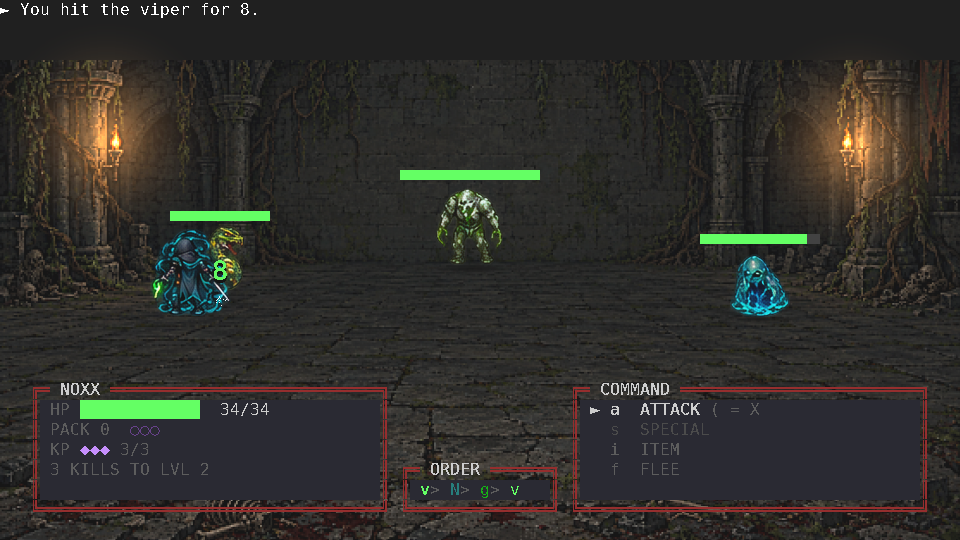
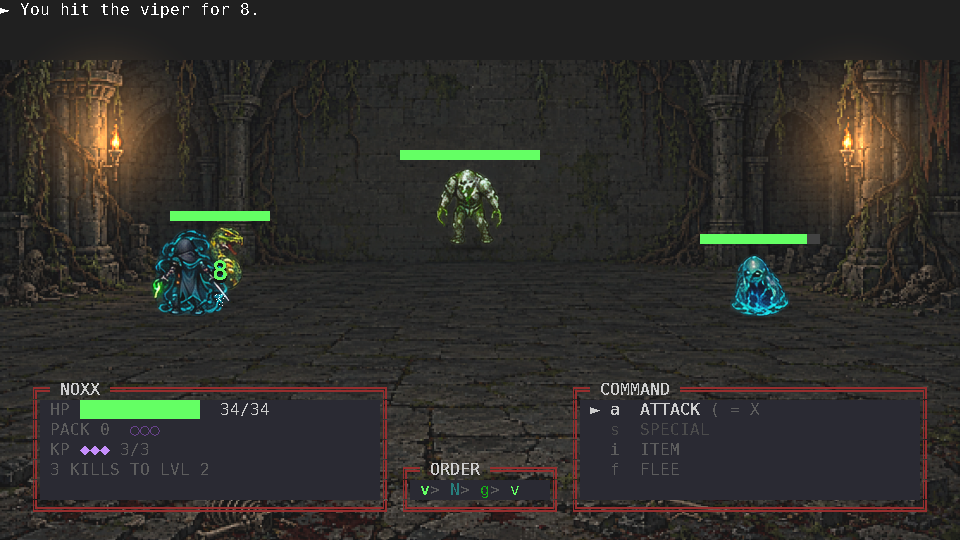
twenty pixels more for the hero and the monster in the middle
One more row each: the hero is at 5.25 rows under the band now, which puts his feet
on the panel's own top line instead of in the middle of it, and the monster in the
middle of the arc lifts another whole row -- half a row from where the arc used to
put it, a row and a half from its depth. Everything that belongs to them comes
along, because everything is placed from the row.

The probe pictures are re-rendered.

1656 tests green.

Changed region(s): [[0.4062, 0.2667, 0.5625, 0.4741]]

diff --git a/src/neverdeads_revenge/desktop/screens/battle.py b/src/neverdeads_revenge/desktop/screens/battle.py
@@ -186,16 +186,16 @@ AIMED: tuple[str, ...] = (ATTACK, SPECIAL)
 ROWS: dict[int, tuple[tuple[float, float, float], ...]] = {
     1: ((0.0, 0.88, 0.0),),
     2: ((-0.20, 1.00, 0.0), (0.20, 1.00, 0.0)),
-    3: ((-0.30, 1.00, 0.0), (-0.02, 0.88, 0.5), (0.30, 1.13, 0.0)),
+    3: ((-0.30, 1.00, 0.0), (-0.02, 0.88, 1.5), (0.30, 1.13, 0.0)),
 }
 
 #: How far below the foot of the floor band the hero stands, in rows. He is the
 #: room's front: on the plate, which is four or five rows under the band whatever
 #: grid the window was derived for -- so a row count keeps him there, and a share
 #: of the band (which is what a depth is) would not. The quarter is the fifteen
-#: pixels he was asked to come up by: a row is twenty, and he stands in the panel
-#: he is in front of rather than on top of it.
-HERO_DROP = 6.25
+#: pixels he was asked to come up by: a row is twenty, and he stands at the very
+#: top of the panel he is in front of rather than in the middle of it.
+HERO_DROP = 5.25
 
 #: How far up the whole stage stands, in rows, from the row it was laid out on.
 #:
